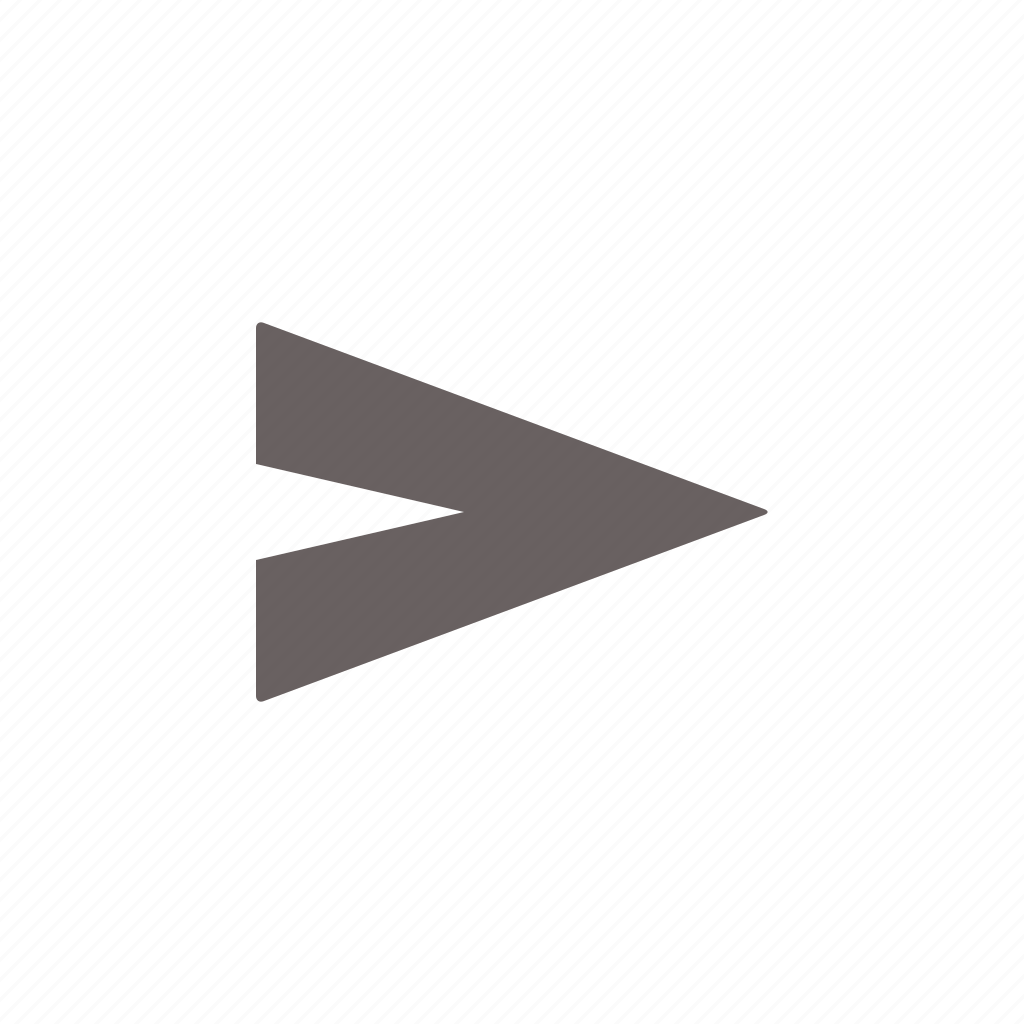
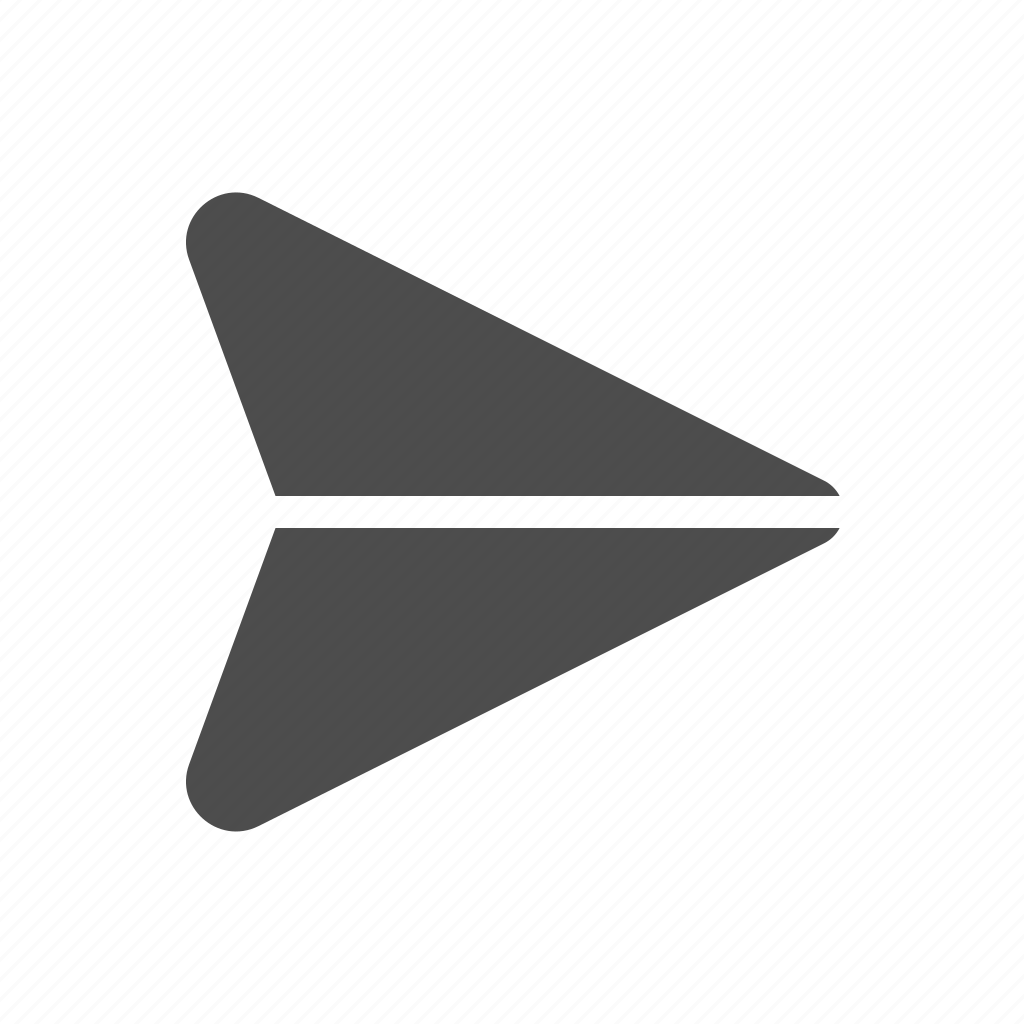
Change chat

Changed region(s): [[0.1562, 0.1875, 0.8125, 0.8125]]

diff --git a/src/components/Main/Main.jsx b/src/components/Main/Main.jsx
@@ -1,13 +1,19 @@
+import React, { useState } from 'react';
 import Search from '../Search/Search';
 import './Main.css';
 import envelope from '../../images/envelope.png'
-import InputMessage from '../InputMessage/InputMessage';
+import TextField from '../TextField/TextField';
 import clip from '../../images/clip.png'
 import smail from '../../images/smail.png'
 import Contact from '../Contact/Contact';
 import Message from '../Message/Message';
 
 const Main = ({ onAddMessage, messages, userContact }) => {
+  const [chatContent, setChatContent] = useState(false)
+
+  const addChat = () => {
+    setChatContent(true)
+  }
 
   return (
     <main className='content'>
@@ -21,41 +27,45 @@ const Main = ({ onAddMessage, messages, userContact }) => {
             </div>
           </div>
         </div>
-
         <div className='content__contacts-container'>
           {
             userContact.map((item) => {
               return <Contact
                 key={item.id}
                 userName={item.name}
+                onClick={addChat}
               />
             })
           }
         </div>
       </div>
-      {/* {
-        chat &&
-        <div className='content__right'>
-        </div>
-      } */}
-      <div className='content__right content__right_type_background'>
-        {
-          messages.map((message) => {
-            return <Message
-              key={message.idMessage}
-              message={message}
-            />
-          })
-        }
-        <div className='content__chat'>
-          <div className='content__items'>
-            <img className='content__item' src={smail} alt='Смайлик' />
-            <img className='content__item' src={clip} alt='Скрепка' />
-          </div>
-          <InputMessage />
-          <div className='content__btn' onClick={onAddMessage}></div>
-        </div>
-      </div>
+      {
+        chatContent ?
+          (<div className='content__right content__right_type_background'>
+            {
+              messages.map((message) => {
+                return <Message
+                  key={message.idMessage}
+                  message={message}
+                />
+              })
+            }
+            <div className='content__chat'>
+              <div className='content__items'>
+                <img className='content__item' src={smail} alt='Смайлик' />
+                <img className='content__item' src={clip} alt='Скрепка' />
+              </div>
+              <form className='content__form' onSubmit={onAddMessage}>
+                <TextField />
+                <button
+                  className='content__btn'
+                  type='submit'
+                />
+              </form>
+            </div>
+          </div>) :
+          (<div className='content__right'></div>)
+      }
     </main>
   );
 }

diff --git a/src/components/Main/Main.css b/src/components/Main/Main.css
@@ -71,6 +71,9 @@
 .content__right {
   display: flex;
   width: 100%;
+  background-image: url('../../images/fff.png');
+  background-repeat: no-repeat;
+  background-position: center;
 }
 
 .content__right_type_background {
@@ -90,16 +93,6 @@
   box-sizing: border-box;
 }
 
-.content__btn {
-  width: 40px;
-  height: 40px;
-  background-image: url('../../images/2643824.png');
-  background-position: center;
-  background-size: cover;
-  background-repeat: no-repeat;
-  cursor: pointer;
-}
-
 .content__items {
   display: flex;
   width: 82px;
@@ -109,5 +102,21 @@
 .content__item {
   width: 26px;
   height: 26px;
+  cursor: pointer;
+}
+
+.content__form {
+  display: flex;
+  width: 100%;
+}
+
+.content__btn {
+  width: 40px;
+  height: 40px;
+  background-image: url('../../images/arrow.png');
+  background-position: center;
+  background-size: cover;
+  background-repeat: no-repeat;
+  border: none;
   cursor: pointer;
 }

diff --git a/src/components/TextField/TextField.css b/src/components/TextField/TextField.css
@@ -1,0 +1,37 @@
+.textField {
+  font-size: 15px;
+  font-weight: 400;
+  line-height: 20px;
+  font-weight: 400;
+  width: 100%;
+  max-height: 7.35em;
+  color: #3b4a54;
+  background-color: #ffffff;
+  border-radius: 8px;
+  padding: 2px 12px;
+  outline: none;
+  border: none;
+  box-sizing: border-box;
+}
+
+.textField:focus {
+  outline: none;
+}
+
+.textField::-webkit-scrollbar {
+  width: 12px;
+}
+
+.textField::-webkit-scrollbar {
+  width: 12px;
+}
+
+.textField::-webkit-scrollbar-track {
+  background: #ffffff;
+}
+
+.textField::-webkit-scrollbar-thumb {
+  background-color: #e2e4e7;
+  border-radius: 20px;
+  border: 3px solid #ffffff;
+}

diff --git a/src/components/TextField/TextField.jsx b/src/components/TextField/TextField.jsx
@@ -1,0 +1,22 @@
+import './TextField.css';
+
+const TextField = (props) => {
+  const handleChangeAndSize = (ev) => {
+    const target = ev.target;
+    target.style.height = '42px';
+    target.style.height = `${target.scrollHeight}px`;
+
+    // handleChange(ev);
+  };
+  return (
+    <textarea
+      className='textField'
+      type='text'
+      onChange={handleChangeAndSize}
+      placeholder='Введите сообщение'
+    />
+
+  );
+}
+
+export default TextField;

diff --git a/src/components/Contact/Contact.jsx b/src/components/Contact/Contact.jsx
@@ -4,7 +4,7 @@ import avatar from '../../images/avatar.jpg'
 const Contact = (props) => {
 
   return (
-    <div className='contact'>
+    <div className='contact' onClick={props.onClick}>
       <img className='contact__img' src={props.contactAvatar ? props.contactAvatar : avatar} alt='Аватар контакта' />
       <div className='contact__container'>
         <span className='contact__telephone'>{props.userName}</span>

diff --git a/src/components/Authorization/Authorization.jsx b/src/components/Authorization/Authorization.jsx
@@ -44,6 +44,7 @@ const Authorization = ({ onGetCredentials }) => {
             name='apiTokenInstance'
           />
           <button
+            type='submit'
             disabled={validityData}
             className={validityData ? `${'auth__button'} ${'auth__button_disabled'}` : `${'auth__button'}`}>Войти</button>
         </form>

diff --git a/src/index.js b/src/index.js
@@ -6,10 +6,10 @@ import { BrowserRouter } from 'react-router-dom';
 
 const root = ReactDOM.createRoot(document.getElementById('root'));
 root.render(
-  <React.StrictMode>
+  // <React.StrictMode>
     <BrowserRouter>
       <App />
     </BrowserRouter>
-  </React.StrictMode>
+  // </React.StrictMode>
 );
 

diff --git a/src/components/ChatPage/ChatPage.jsx b/src/components/ChatPage/ChatPage.jsx
@@ -12,7 +12,8 @@ const ChatPage = ({ onAddMessage, messages, userContact }) => {
         <Main
           onAddMessage={onAddMessage}
           messages={messages}
-          userContact={userContact} />
+          userContact={userContact}
+        />
       </div>
     </div>
 
